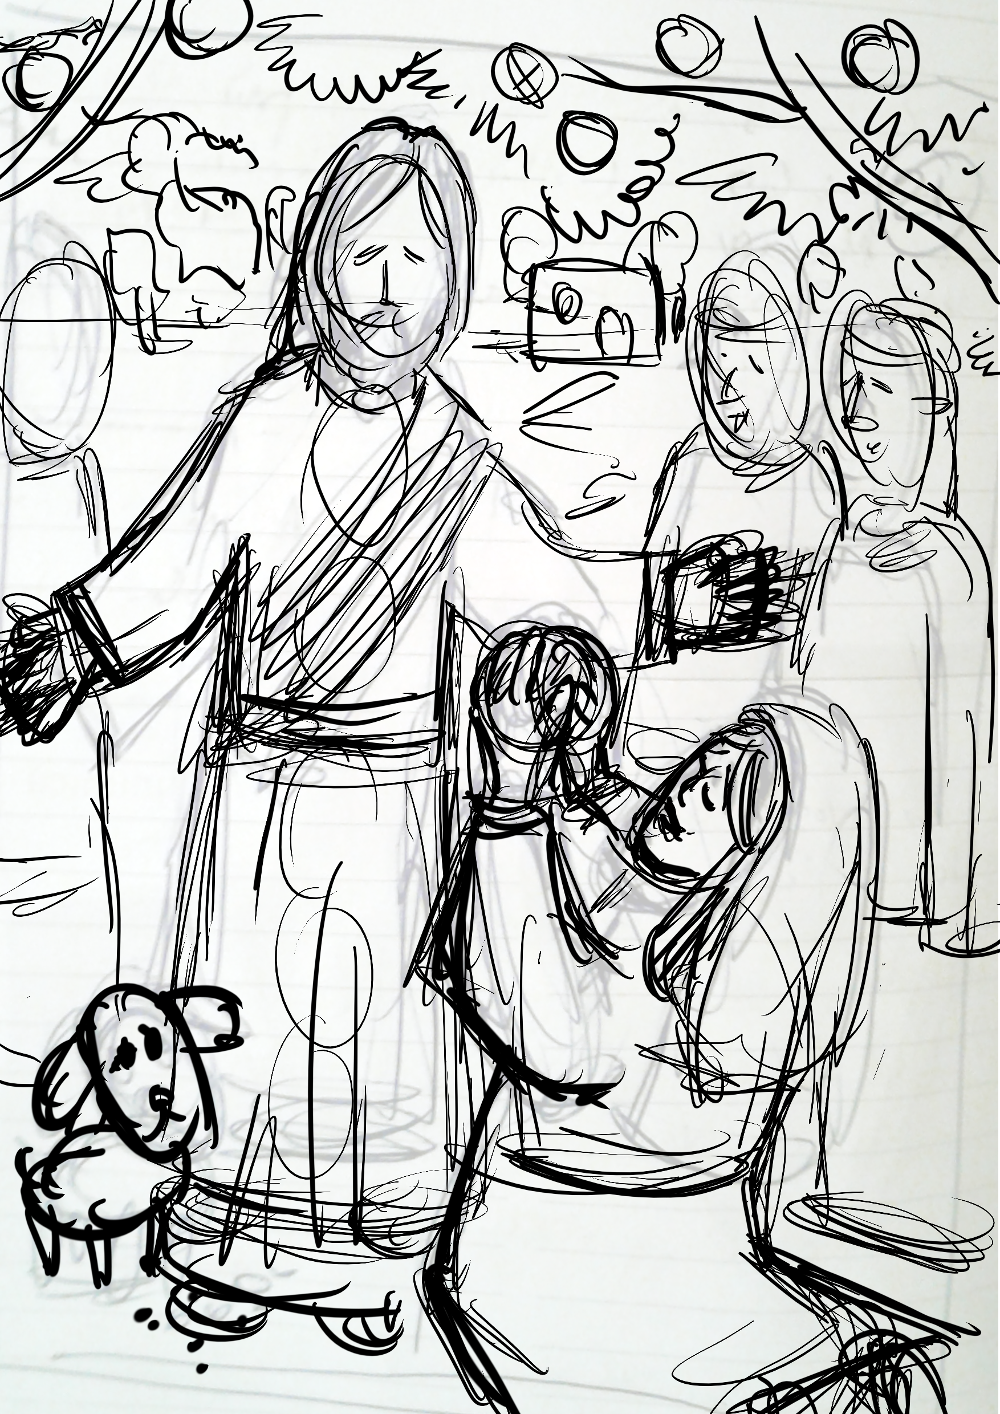
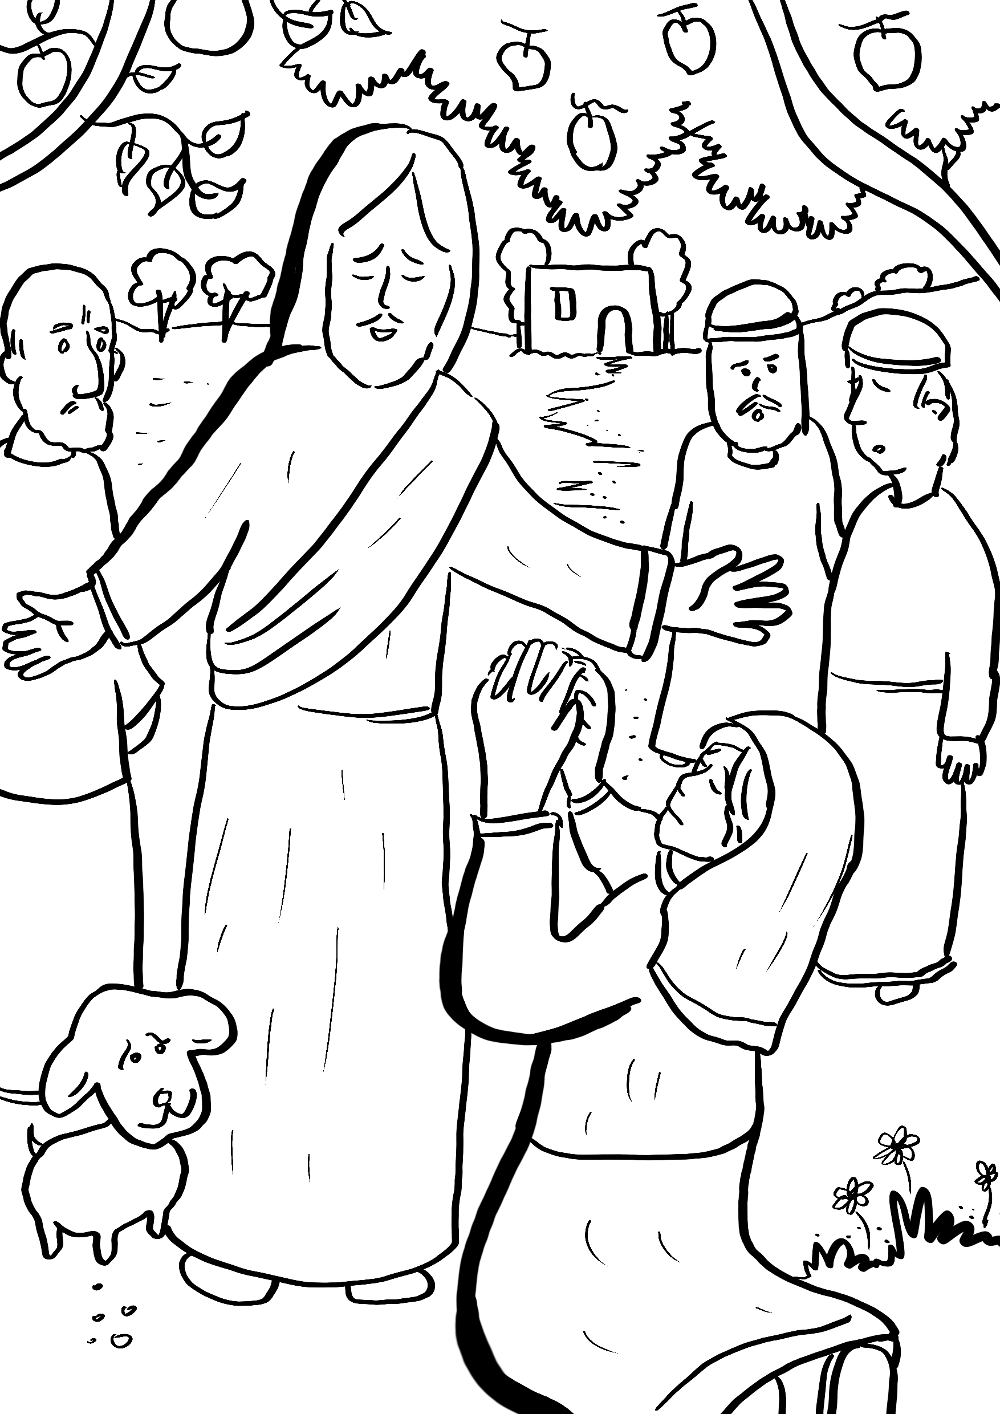
Update 21.

diff --git a/script.js b/script.js
@@ -3,7 +3,7 @@ angular.module('galleryApp', [])
     var gallery = this;
     gallery.language = "ro";
     gallery.work_start_date = new Date(2017,02,12);
-    gallery.worked_hours = 86;  // EDIT HERE
+    gallery.worked_hours = 86.5;  // EDIT HERE
 
     gallery.get_global_progress = function() {
       var index;
@@ -397,7 +397,7 @@ angular.module('galleryApp', [])
       {
         id: 21,
         img: '21.png',
-        done: 50,
+        done: 100,
         title: {
           ro: "Vindecarea fiicei femeii canaanite",
           en: "Healing the Canaanite woman's daughter"
